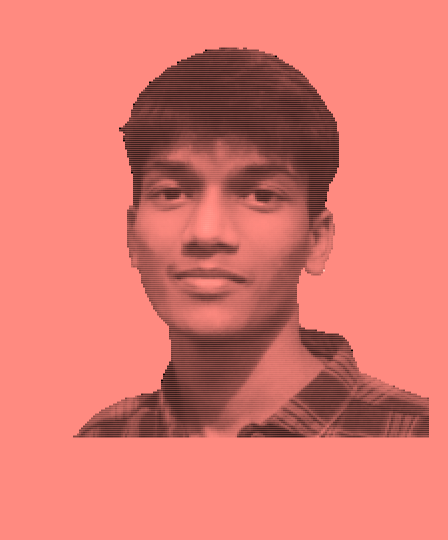
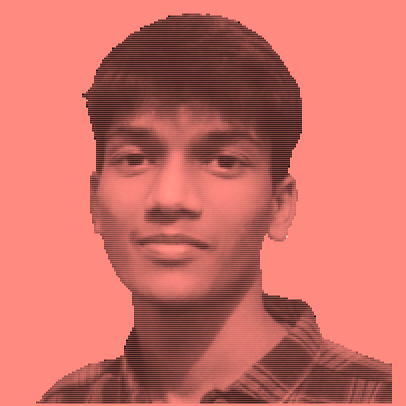
Modifying blog css

diff --git a/Blog/1.html b/Blog/1.html
@@ -33,7 +33,7 @@ Then, the final RGB of pixel to be used in canvas is calculated as:
 Red component = (average of rgb of pixel)<em>(Red component of background)/(average of rgb of background).
 Similarly, Blue component = (average of RGB of the pixel)</em>(Blue component of background)/(average of RGB of background)
 And Green component = (average of RGB of the pixel)*(Green component of background)/(average of RGB of background)</p>
-<p>The RGB of the pixel is <strong>(avg<em>255/174, avg</em>138/174, avg*128/174)</strong>. And we get a pleasant combination of image and background, instead of contrasting one.</p>
+<p>The RGB of the pixel is <em>(avg*255/174, avg*138/174, avg*128/174)</em>. And we get a pleasant combination of image and background, instead of contrasting one.</p>
 </div>
 </div></div>
 </body>

diff --git a/css/blog-single.css b/css/blog-single.css
@@ -51,7 +51,8 @@ display: block;
 margin-left: auto;
 margin-right: auto;
 max-width: 600px;
-max-height: 450px;
+max-height: 400px;
+width: 100%;
 margin-bottom: 10px;
 margin-top: 10px;
 }
